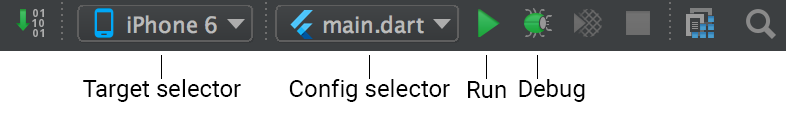
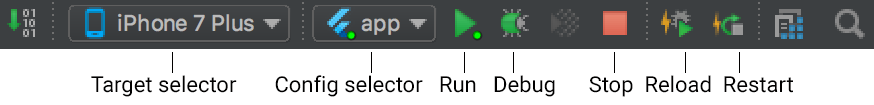
Update IntelliJ run and reload instructions (#363)
* Update IntelliJ run and reload instructions

* Update Observatory text per review feedback

diff --git a/intellij-ide.md b/intellij-ide.md
@@ -86,7 +86,7 @@ Running and Debugging is controlled from the main toolbar:
 When a Flutter project is open in IntelliJ, you should see a set of Flutter
 specific buttons on the right-hand side of the toolbar.
 
-1. Locate the **Flutter Device Selector** drop-down button. This will show a
+1. Locate the **Flutter Target Selector** drop-down button. This will show a
  list of available targets. Select the target you want your app to started on.
 
 * When you connect devices, or start simulators, additional entries will appear.
@@ -112,17 +112,6 @@ specific buttons on the right-hand side of the toolbar.
 * Debugging is based on a default launch configuration. To customize this, click.
  the drop-down button to the right of the device selector, and select **Edit configuration**.
 
-### Advanced debugging with Observatory
-
-Observatory is an additional debugging and profiling tool presented with an
-html-based UI. For details see the [Observatory page](https://dart-lang.github.io/observatory/).
-
-To open Observatory:
-
-1. Run your app in debug mode.
-
-1. In the Debug panel at the bottom, click the **Arrow icon** ('Open Observatory').
-
 ## Fast edit and refresh development cycle
 
 Flutter offers a best-in-class developer cycle enabling you to see the effect of
@@ -132,13 +121,23 @@ your changes near instantly.
 
 To edit your code and hot reload changes:
 
+1. Start your app with 'Run' (without breakpoints) or 'Debug' (with breakpoints).
+
+1. Make desired changes in your source code
+
+1. Do not press the 'Stop' button; rather, to see your changes just click the
+**Hot Reload button**.
+
+### Advanced debugging with Observatory
+
+Observatory is an additional debugging and profiling tool presented with an
+html-based UI. For details see the [Observatory page](https://dart-lang.github.io/observatory/).
+
+To open Observatory:
+
 1. Run your app in debug mode.
 
-1. Make desired changes in your source code (without stopping the debugger).
-
-1. In the Debug panel at the bottom, click the **Hot Reload button**.
-
-![Main IntelliJ toolbar](/images/intellij/debug-toolbar.png)
+1. In the Debug panel at the bottom, click the **Stopwatch icon** ('Open Observatory').
 
 ### IntelliJ keyboard shortcuts
 
@@ -197,13 +196,13 @@ To navigate quickly in your code:
 
 Code completion:
   * Code completions will be shown as you type, or can be invoked at any time with `shift-spacebar`
-  * IntelliJ code completion matches are per-default case sensitive on the first letter. 
+  * IntelliJ code completion matches are per-default case sensitive on the first letter.
     You can change this in **Preferences > Editor > General > Code Completion**
-    
+
 Opening a Flutter project in IntelliJ from the terminal:
   * Create a terminal config for IntelliJ: In IntelliJ, select **Tools > Create Command-line Launcher**
   * You can now open a project with `idea .`, e.g.:
-  
+
   ```
   cd <flutter sdk dir>\examples\flutter_gallery`
   idea .

diff --git a/getting-started.md b/getting-started.md
@@ -61,7 +61,7 @@ plugins](/setup/#plugins), you can start your Flutter app from there:
 1. Select **Flutter** in the menu, and click **Next**.
 1. Under **Project location** enter, or browse to, the directory holding your new Flutter app.
 1. Click **Finish**.
-1. Click the **Debug icon** in the toolbar, or invoke the menu item **Run > Debug**.
+1. Click the **Run icon** in the toolbar, or invoke the menu item **Run > Run**.
 
 ![Main IntelliJ toolbar](/images/intellij/main-toolbar.png)
 
@@ -92,21 +92,12 @@ offering a best-in-class development cycle.
 
 To edit your code and hot reload changes:
 
-1. Run your app in debug mode.
-1. Make desired changes in your source code (without stopping the debugger).
-1. In the Debug panel at the bottom, click the Hot Reload button.
-
-Not all source code changes can be hot reloaded. To fully restart the Dart VM of
-your Flutter app you can use the _Full Application Restart_ button.
-
-![Main IntelliJ toolbar](/images/intellij/debug-toolbar.png)
-
-The _Rerun ``main.dart``_ button on the left side of the Debug Toolbar will
-redeploy the app to the device. For both _Full Application Restart_ and _Rerun_
-you will lose the state of your application.
+1. Run your app with 'Run' or 'Debug'.
+1. Make desired changes in your source code (without stopping the app).
+1. Click the Hot Reload button.
 
 A more detailed detailed description on how to use the IntelliJ plugin and which
-changes are supported by the hot-reload feature can be found on the page
+changes are supported by the hot reload feature can be found on the page
 [Developing apps in the IntelliJ IDE](../intellij-ide/).
 
 ## Next steps
